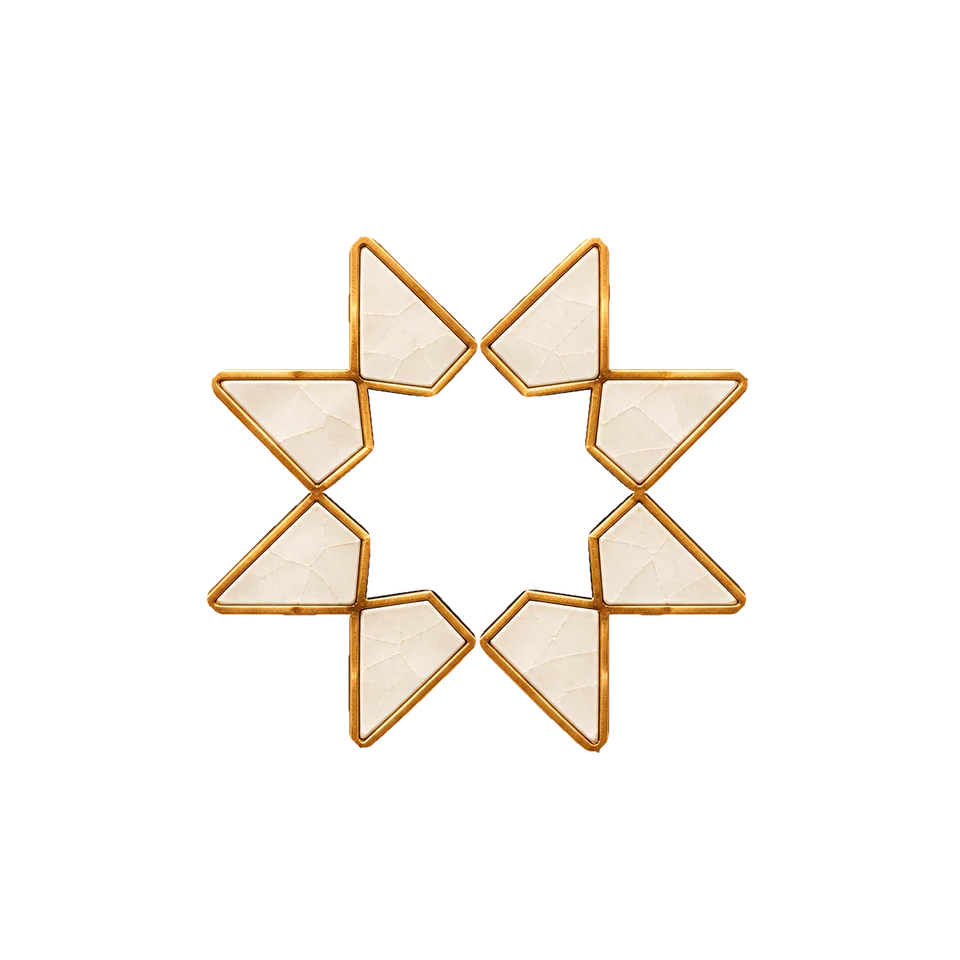
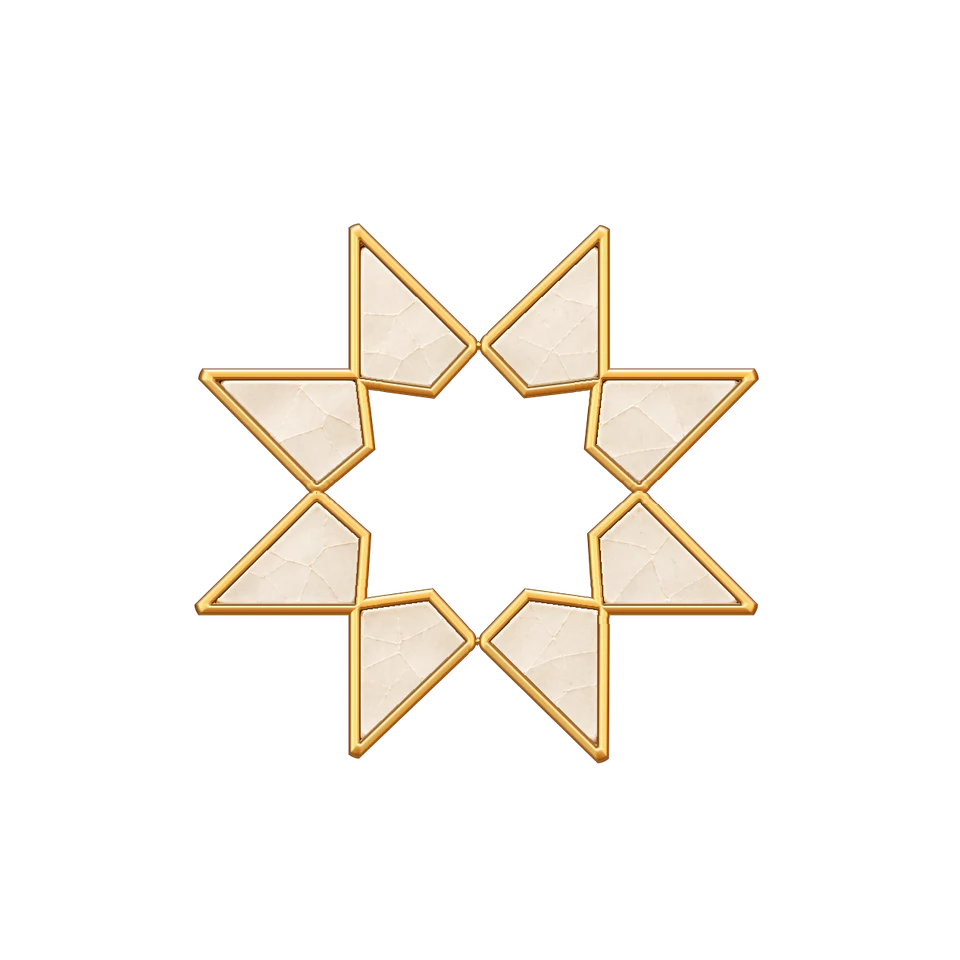
feat: make every emblem layer a whole tile with its own rim
Cutting the drawn rims can't give clean pieces: neighbours share one rim
of varying width, and the cobalt squares have none of their own on their
inner sides. Each layer now keeps its pieces' glaze and paints them a new
rim with the emblem's own cross-section (scripts/rim.mjs, shared with
fix-emblem.mjs, whose output is unchanged): straight sides from each
piece's simplified convex hull, mitred corners, antialiased edges.

The assembled emblem, with its drawn rims, is layer-whole.webp. It covers
the layers while they rest in place and fades out as soon as any layer
moves or is highlighted (story scroll and focus, hero intro, lift and
scroll-out), so Zel at rest looks exactly as before.

diff --git a/marketing/src/styles.css b/marketing/src/styles.css
@@ -268,6 +268,16 @@
   .focus-points .layer-points {
     filter: drop-shadow(0 0 14px rgb(212 182 120 / 0.65));
   }
+  /* The assembled emblem keeps its drawn rims: it covers the layers while they rest
+     in place and gives way to them, each a whole tile, as soon as one moves. */
+  .zel-whole { transition: opacity 0.3s ease; }
+  .tile-scroll .zel-whole {
+    opacity: calc((min(var(--p1, 1), var(--p2, 1), var(--p3, 1)) - 0.99) * 100);
+    transition: none;
+  }
+  .focus-crown .zel-whole,
+  .focus-cobalt .zel-whole,
+  .focus-points .zel-whole { opacity: 0; }
   .companion-look {
     translate: var(--look-x, 0) var(--look-y, 0);
     transition: translate 0.25s ease-out;
@@ -337,6 +347,7 @@
   .tile-intro .layer-crown { animation-delay: 0.45s; }
   .tile-intro .layer-cobalt { animation-delay: 0.7s; }
   .tile-intro .layer-points { animation-delay: 0.95s; }
+  .tile-intro .zel-whole { animation: whole-in 0.3s 1.85s backwards; }
   .tile-intro .tile-label { animation: label-in 0.5s ease-out both; }
   .tile-intro .label-crown { animation-delay: 1.2s; }
   .tile-intro .label-cobalt { animation-delay: 1.4s; }
@@ -349,6 +360,9 @@
 @keyframes centre-in {
   from { opacity: 0; scale: 0.6; }
 }
+@keyframes whole-in {
+  from { opacity: 0; }
+}
 @keyframes label-in {
   from { opacity: 0; translate: 0 8px; }
 }
@@ -359,6 +373,7 @@
   .hero-intro .layer-cobalt { animation: fly-in 1.1s 0.55s cubic-bezier(0.16, 0.9, 0.24, 1.04) both; --fly: 2.1; --spin: -18deg; }
   .hero-intro .layer-crown { animation: fly-in 1s 0.85s cubic-bezier(0.16, 0.9, 0.24, 1.04) both; --fly: 1.5; --spin: 12deg; }
   .hero-intro .layer-centre, .hero-intro .zel-face-layer { animation: centre-in 0.7s 1.35s cubic-bezier(0.3, 1.5, 0.5, 1) both; transform-origin: center; }
+  .hero-intro .zel-whole { animation: whole-in 0.3s 2.05s backwards; }
   .hero-intro .hero-greeting { animation: pop 0.6s 2.1s cubic-bezier(0.3, 1.5, 0.5, 1) both; transform-origin: bottom left; }
   .hero .hero-copy { animation: arrive 0.8s 1.6s cubic-bezier(0.2, 0.7, 0.2, 1) both; }
 }
@@ -377,6 +392,8 @@
   .lift-crown .zel-layer:not(.layer-centre, .layer-crown),
   .lift-cobalt .zel-layer:not(.layer-centre, .layer-cobalt),
   .lift-points .zel-layer:not(.layer-centre, .layer-points) { filter: saturate(0.3) brightness(0.92); opacity: 0.45; }
+  .hero-zel .zel-whole { opacity: calc(1 - var(--out, 0) * 100); }
+  .lift-crown .zel-whole, .lift-cobalt .zel-whole, .lift-points .zel-whole { opacity: 0; }
   .lift-crown .layer-crown, .lift-cobalt .layer-cobalt, .lift-points .layer-points {
     translate: 0 -6px;
     filter: drop-shadow(0 10px 14px rgb(11 29 41 / 0.35)) drop-shadow(0 0 16px rgb(212 182 120 / 0.55));

diff --git a/marketing/src/components/Companion.tsx b/marketing/src/components/Companion.tsx
@@ -4,6 +4,7 @@ import layerCentre from "@/assets/layer-centre.webp";
 import layerCobalt from "@/assets/layer-cobalt.webp";
 import layerCrown from "@/assets/layer-crown.webp";
 import layerPoints from "@/assets/layer-points.webp";
+import layerWhole from "@/assets/layer-whole.webp";
 
 import { ZelFace, type Mood } from "./ZelFace";
 
@@ -12,7 +13,9 @@ export type { Mood };
 /*
  * Zel is the standard emblem itself, with an obsidian face on its centre star.
  * The body is the emblem's four colour layers (scripts/build-layers.mjs), stacked
- * so they can also be shown one by one; the face is SVG, so Zel can change
+ * so they can also be shown one by one; each is a whole tile with its own rim, and
+ * the assembled emblem, with its drawn rims, covers them while they rest in place
+ * (.zel-whole in styles.css). The face is SVG, so Zel can change
  * expression, blink and look around (ZelFace.tsx).
  * Positions are set only through CSS custom properties from JS, never inline
  * style attributes, to stay within the landing's CSP.
@@ -59,6 +62,7 @@ export function Companion({
         {layers.map(({ name, src }) => (
           <img key={name} src={src} width="960" height="960" alt="" draggable={false} className={`zel-layer layer-${name} absolute inset-0 size-full`} />
         ))}
+        <img src={layerWhole} width="960" height="960" alt="" draggable={false} className="zel-whole absolute inset-0 size-full" />
       </div>
       <svg viewBox="0 0 1254 1254" className="zel-face-layer absolute inset-0 size-full" aria-hidden="true">
         <ZelFace mood={mood} />
